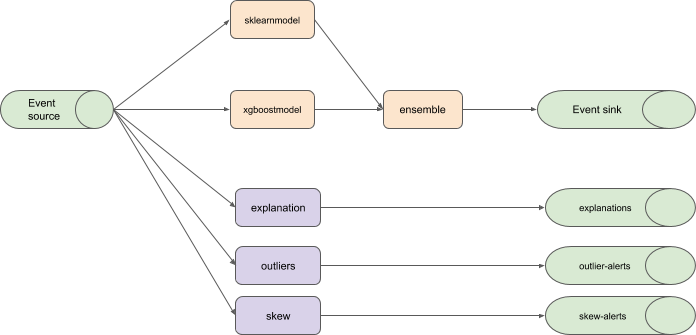
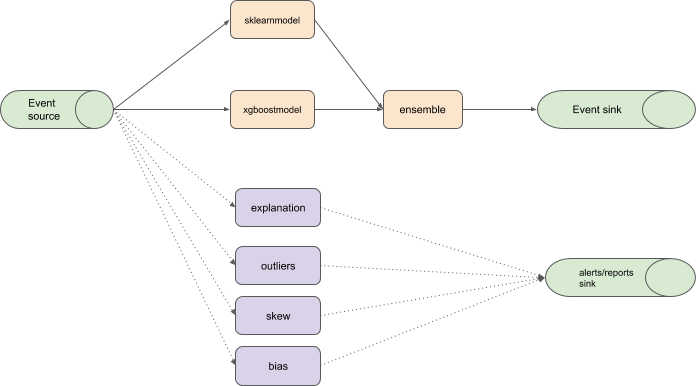
update examples

diff --git a/docs/control-plane.md b/docs/control-plane.md
@@ -121,14 +121,17 @@ If no fields specified then merge requests and average
 | explanation | [ExplanationSpec](#ExplanationSpec) | model explanations |
 | outliers | [OutlierSpec](#OutlierSpec) | request outlier monitoring |
 | skew | [SkewSpec](#SkewSpec) | Concept drift/skew monitoring ] |
+| bias | [BiasSpec](#BiasSpec) | Bias monitoring ] |
+| reporting | [ReportingSpec](#ReportingSpec) | How to report results |
 
 ### ExplanationSpec
 
 | Field       | Value       | Description |
 | ----------- | ----------- | ----------- |
 | method | string | Explanation method auto or method name |
+
 | activation | float | What percetage of prediction calls will get explanations (default 0%) |
-| reporting | [ReportingSpec](#ReportingSpec) | How to report results |
+| reporting | [ReportingSpec](#ReportingSpec) | Where to send explanation results |
 
 ### OutlierSpec
 
@@ -136,7 +139,7 @@ If no fields specified then merge requests and average
 | ----------- | ----------- | ----------- |
 | method | string | Outlier method auto or method name |
 | activation | float | What percetage of prediction calls will get outlier detection (default 100%) |
-| reporting | [ReportingSpec](#ReportingSpec) | How to report results |
+| reporting | [ReportingSpec](#ReportingSpec) | Where to sent outlier alerts |
 
 ### SkewSpec
 
@@ -144,7 +147,15 @@ If no fields specified then merge requests and average
 | ----------- | ----------- | ----------- |
 | method | string | Skew method auto or method name |
 | activation | float | What percetage of reward calls will update skew component (default 100%) |
-| reporting | [ReportingSpec](#ReportingSpec) | How to report results |
+| reporting | [ReportingSpec](#ReportingSpec) | Where to send skew alerts |
+
+### BiasSpec
+
+| Field       | Value       | Description |
+| ----------- | ----------- | ----------- |
+| method | string | bias method auto or method name (defaults auto) |
+| activation | float | What percetage of prediction calls will update bias component (default 100%) |
+| reporting | [ReportingSpec](#ReportingSpec) | Where to send bias alerts |
 
 
 

diff --git a/docs/examples.md b/docs/examples.md
@@ -64,15 +64,6 @@ spec:
             default:
               xgboost:
                 modelUri: "gs://kfserving-samples/models/xgboost/iris/"
-    - name: c
-      dependencies: [mab]
-      implementation:
-        inline:
-          kfspec:
-            default:
-              tensorflow:
-                modelUri: "gs://kfserving-samples/models/tensorflow/iris/"
-
 ```
 
 [ref](./samples/mab_inline_kfservices.yaml)
@@ -105,18 +96,10 @@ spec:
             apiVersion: serving.ml.org/v1alpha1
             kind: MLServer
             name: sklearnServer
-    - name: c
-      implementation:
-        ref:
-          custom:
-            apiVersion: serving.company.com/v1alpha1
-            kind: MLCustomServer
-            name: customServer
     - name: ensemble
-      dependencies: [a, b, c]
+      dependencies: [a, b]
       merge:
         ensemble:
-
 ```
 
 [ref](./samples/ensemble_custom_refs.yaml)
@@ -249,29 +232,15 @@ spec:
       dependencies: [a, b]
       merge:
         ensemble:
-  analysis:
+  analysis:    
     explanation:
-      method: anchors-tabular
-      activation: 0
-      reporting:
-        ref:
-          apiVersion: eventing.knative.dev/v1alpha1
-          kind: Channel
-          name: explanations
     outliers:
-      activation: 100
-      reporting:
-        ref:
-          apiVersion: eventing.knative.dev/v1alpha1
-          kind: Channel
-          name: outlier-alerts
     skew:
-      activation: 10
-      reporting:
-        ref:
-          apiVersion: eventing.knative.dev/v1alpha1
-          kind: Channel
-          name: skew-alerts
+    bias:
+    reporting:
+      ref:
+        apiVersion: eventing.knative.dev/v1alpha1
+        kind: Channel
+        name: mlgraph_alerts
       
-
 ```
